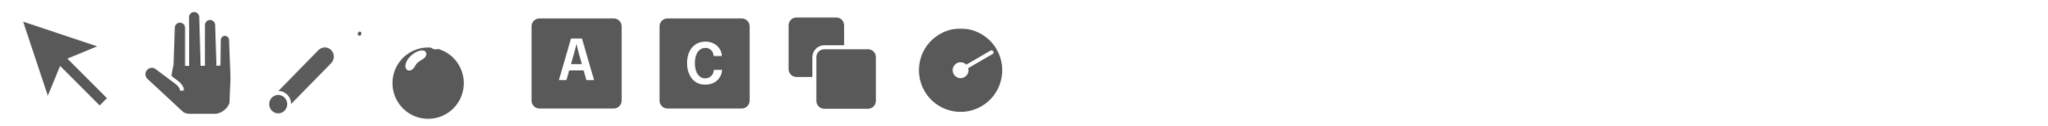
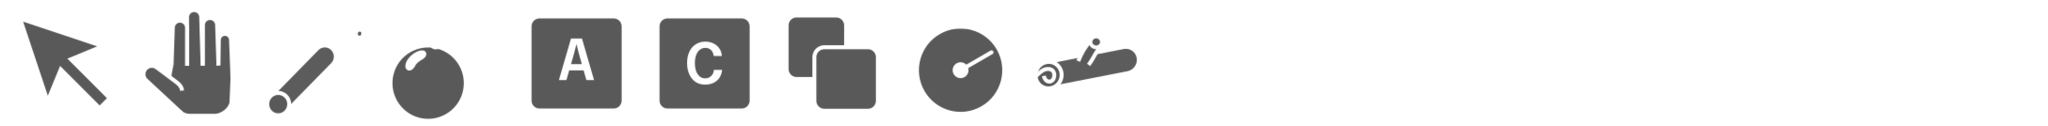
Add some more code and assets for resources

Changed region(s): [[0.5, 0.381, 0.5625, 0.6905], [0.5312, 0.3095, 0.5625, 0.3571]]

diff --git a/src/ui/render.ts b/src/ui/render.ts
@@ -21,7 +21,7 @@ import { drawBonus } from './drawBonus';
 import { wordBubblePanicBounds, wordBubblePanicRect, wordBubbleRect } from './drawPanicBar';
 import { CanvasInfo } from './use-canvas';
 import { apexOfBubble, cell_in_canvas, drawBubble, drawBubbleAux, pan_canvas_from_world_of_state, textCenterOfBubble } from './view-helpers';
-import { GLOBAL_BORDER, PANIC_THICK, canvas_bds_in_canvas, canvas_from_hand, canvas_from_toolbar, effective_toolbar_bds_in_canvas, getWidgetPoint, hand_bds_in_canvas, inner_hand_bds_in_canvas, panic_bds_in_canvas, pause_button_bds_in_canvas, score_bds_in_canvas, spacer1_bds_in_canvas, spacer2_bds_in_canvas, toolbar_bds_in_canvas, world_bds_in_canvas } from './widget-helpers';
+import { GLOBAL_BORDER, PANIC_THICK, canvas_bds_in_canvas, canvas_from_hand, canvas_from_toolbar, effective_resbar_bds_in_canvas, effective_toolbar_bds_in_canvas, getWidgetPoint, hand_bds_in_canvas, inner_hand_bds_in_canvas, panic_bds_in_canvas, pause_button_bds_in_canvas, score_bds_in_canvas, spacer1_bds_in_canvas, spacer2_bds_in_canvas, toolbar_bds_in_canvas, world_bds_in_canvas } from './widget-helpers';
 
 const INTERFACE_RADIUS = 2 * GLOBAL_BORDER;
 const PANIC_RADIUS = Math.min(INTERFACE_RADIUS, PANIC_THICK / 2);
@@ -88,12 +88,23 @@ function drawUiFrame(d: CanvasRenderingContext2D, state: CoreState): void {
   const hasLost = lostState(state);
 
   const { p: tp, sz: ts } = effective_toolbar_bds_in_canvas(state);
+  const { p: rp, sz: rs } = effective_resbar_bds_in_canvas(state);
   const tq = vadd(tp, ts);
+  const rq = vadd(rp, rs);
 
   // This is the main fill for the outer interface
   d.beginPath();
   // One positive path for the outer canvas rectangle
   pathRect(d, invertRect(canvas_bds_in_canvas));
+
+  const resbarPts: Point[] = rs.y > 0
+    ? [
+      // top right, just to top left of resbar
+      { x: rp.x, y: rp.y + GLOBAL_BORDER },
+      { x: rp.x, y: rq.y },
+      { x: canvas_bds_in_canvas.p.x + canvas_bds_in_canvas.sz.x - GLOBAL_BORDER, y: rq.y }
+    ]
+    : [{ x: canvas_bds_in_canvas.p.x + canvas_bds_in_canvas.sz.x - GLOBAL_BORDER, y: tp.y + GLOBAL_BORDER }];
 
   // Subtract a rounded path
   roundedPath(d, [
@@ -101,8 +112,7 @@ function drawUiFrame(d: CanvasRenderingContext2D, state: CoreState): void {
     { x: tp.x + GLOBAL_BORDER, y: tq.y },
     { x: tq.x, y: tq.y },
     { x: tq.x, y: tp.y + GLOBAL_BORDER },
-    // top right
-    { x: canvas_bds_in_canvas.p.x + canvas_bds_in_canvas.sz.x - GLOBAL_BORDER, y: tp.y + GLOBAL_BORDER },
+    ...resbarPts,
     // bottom right
     { x: canvas_bds_in_canvas.p.x + canvas_bds_in_canvas.sz.x - GLOBAL_BORDER, y: canvas_bds_in_canvas.p.y + canvas_bds_in_canvas.sz.y - GLOBAL_BORDER },
     // bottom right of rack etc.

diff --git a/src/core/tools.ts b/src/core/tools.ts
@@ -1,4 +1,4 @@
-import { largeSpriteLocOfTool, largeSpriteRectOfPos, spriteLocOfTool, spriteRectOfPos } from "../ui/sprite-sheet";
+import { largeSpriteLoc, largeSpriteRectOfPos, spriteLocOfTool, spriteRectOfPos } from "../ui/sprite-sheet";
 import { produce } from "../util/produce";
 import { Rect } from "../util/types";
 import { GameLowAction } from "./action";
@@ -24,6 +24,12 @@ const tools = [
 ] as const;
 
 export type Tool = (typeof tools)[number];
+
+const resources = [
+  'wood'
+] as const;
+
+export type Resource = (typeof resources)[number];
 
 export function toolOfIndex(index: number): Tool | undefined {
   return tools[index];
@@ -71,12 +77,23 @@ export function getCurrentTools(state: CoreState): Tool[] {
   return tools;
 }
 
+export function getCurrentResources(state: CoreState): Resource[] {
+  if (state.slowState.winState.t == 'lost') {
+    return [];
+  }
+  const resources: Resource[] = [];
+  if (state.slowState.resource.wood > 0) {
+    resources.push('wood');
+  }
+  return resources;
+}
+
 export function rectOfTool(tool: Tool): Rect {
   return spriteRectOfPos(spriteLocOfTool(tool));
 }
 
 export function largeRectOfTool(tool: Tool): Rect {
-  return largeSpriteRectOfPos(largeSpriteLocOfTool(tool));
+  return largeSpriteRectOfPos(largeSpriteLoc(tool));
 }
 
 export function reduceToolSelect(state: CoreState, tool: Tool): GameLowAction {

diff --git a/src/ui/sprite-sheet.ts b/src/ui/sprite-sheet.ts
@@ -1,7 +1,7 @@
 import { Bonus } from "../core/bonus";
 import { ChunkValue } from "../core/chunk";
 import { MobState } from "../core/mobs";
-import { LARGE_SPRITE_PIXEL_WIDTH, TOOL_IMAGE_WIDTH, Tool } from "../core/tools";
+import { LARGE_SPRITE_PIXEL_WIDTH, Resource, TOOL_IMAGE_WIDTH, Tool } from "../core/tools";
 import { Buffer, buffer, fillRect } from "../util/dutil";
 import { scale } from "../util/se2";
 import { apply_to_rect } from "../util/se2-extra";
@@ -64,7 +64,7 @@ export function spriteLocOfTool(tool: Tool): Point {
   }
 }
 
-export function largeSpriteLocOfTool(tool: Tool): Point {
+export function largeSpriteLoc(tool: Tool | Resource): Point {
   switch (tool) {
     case 'pointer': return { y: 0, x: 0 };
     case 'hand': return { y: 0, x: 1 };
@@ -74,6 +74,7 @@ export function largeSpriteLocOfTool(tool: Tool): Point {
     case 'consonant': return { y: 0, x: 5 };
     case 'copy': return { y: 0, x: 6 };
     case 'time': return { y: 0, x: 7 };
+    case 'wood': return { y: 0, x: 8 };
   }
 }
 

diff --git a/src/ui/widget-helpers.ts b/src/ui/widget-helpers.ts
@@ -1,5 +1,5 @@
 import { CoreState, HAND_TILE_LIMIT } from "../core/state";
-import { Tool, getCurrentTools } from "../core/tools";
+import { Tool, getCurrentResources, getCurrentTools } from "../core/tools";
 import { SE2, apply, inverse } from "../util/se2";
 import { Point, Rect } from "../util/types";
 import { lerp, mapval, pixelSnapRect, pointInRect } from "../util/util";
@@ -98,6 +98,14 @@ export function effective_toolbar_bds_in_canvas(state: CoreState): Rect {
   return {
     p: { x: 0, y: 0 },
     sz: { x: TOOLBAR_WIDTH, y: Math.min(numTools * TOOLBAR_WIDTH, canvas_bds_in_canvas.sz.y) }
+  }
+}
+
+export function effective_resbar_bds_in_canvas(state: CoreState): Rect {
+  const numRes = getCurrentResources(state).length;
+  return {
+    p: { x: canvas_bds_in_canvas.sz.x - TOOLBAR_WIDTH, y: 0 },
+    sz: { x: TOOLBAR_WIDTH, y: Math.min(numRes * TOOLBAR_WIDTH, canvas_bds_in_canvas.sz.y) }
   }
 }
 

diff --git a/src/core/state.ts b/src/core/state.ts
@@ -117,10 +117,15 @@ export type InventoryItems = {
   times: number,
 };
 
+export type ResourceItems = {
+  wood: number,
+};
+
 // state such that, if it updates, should induce redraw of Canvas2d content
 export type SlowState = {
   generation: number, // an arbitrary mechanism for forcing a redraw
   inventory: InventoryItems,
+  resource: ResourceItems,
   scoring: ScoreState,
   currentTool: Tool,
   invalidWords: LocatedWord[],
@@ -187,6 +192,9 @@ export function mkGameState(seed: number, creative: boolean, bonusLayerSeed: num
           consonants: 0,
           copies: 0,
           times: 0,
+        },
+        resource: {
+          wood: 0,
         },
         scoring: { score: 0, highWaterMark: 0 },
         currentTool: 'pointer',

diff --git a/src/ui/instructions.tsx b/src/ui/instructions.tsx
@@ -182,6 +182,9 @@ function exampleState(): GameState {
           copies: 0,
           times: 0,
         },
+        resource: {
+          wood: 0,
+        },
         scoring: {
           score: 7,
           highWaterMark: 7,
